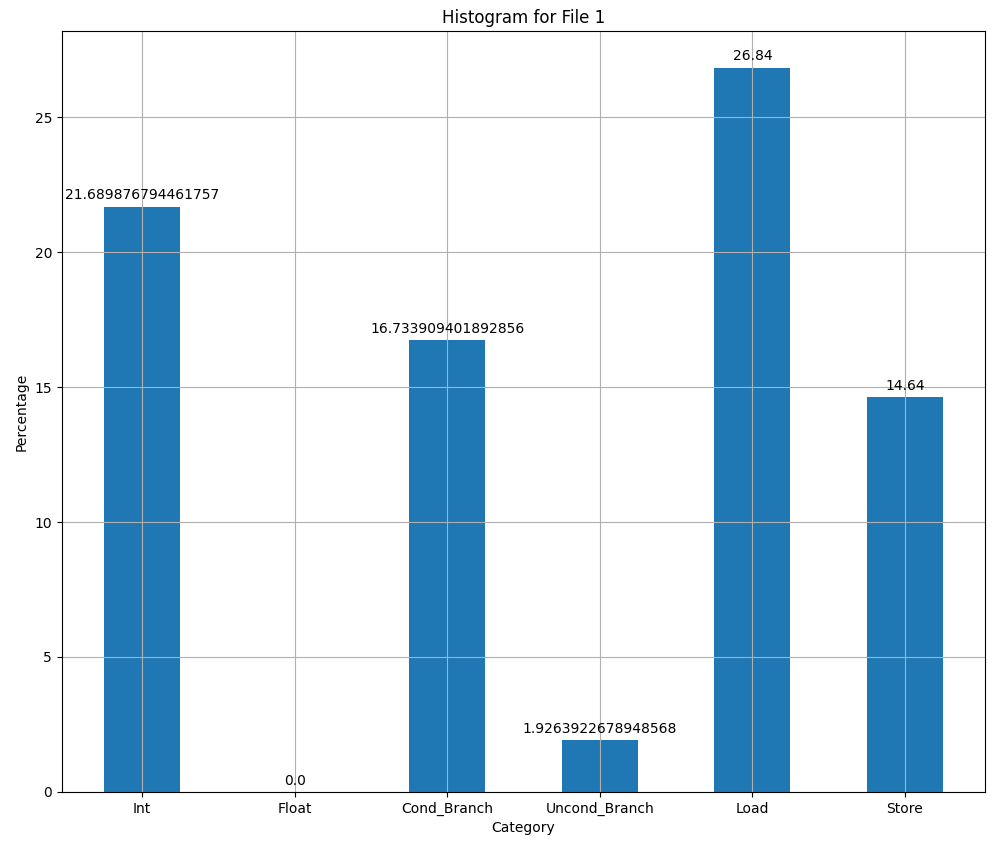
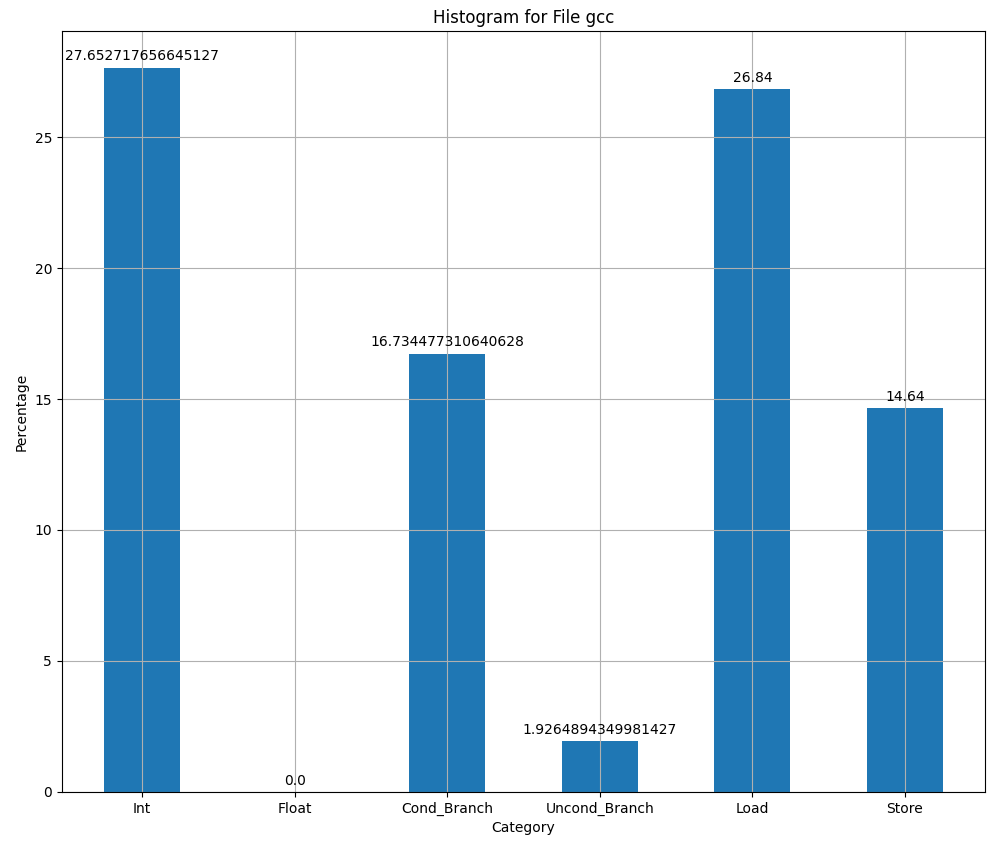
Final Commit

diff --git a/Assignment_1/Part_A/logic.cpp b/Assignment_1/Part_A/logic.cpp
@@ -1,0 +1,31 @@
+#include "pin.H"
+#include <iostream>
+#include <fstream>
+
+UINT64 arithmeticInstructionCount = 0;
+
+// This function is called for every instruction and counts arithmetic instructions
+VOID CountArithmeticInstructions(INS ins, VOID *v) {
+    if (INS_Category(ins) == XED_CATEGORY_ARITHMETIC) {
+        arithmeticInstructionCount++;
+    }
+}
+
+// This function is called when the application exits
+VOID Fini(INT32 code, VOID *v) {
+    std::cerr << "Arithmetic Instruction Count: " << arithmeticInstructionCount << std::endl;
+}
+
+// Entry point
+int main(int argc, char *argv[]) {
+    PIN_Init(argc, argv);
+
+    // Instrumentation setup
+    INS_AddInstrumentFunction(CountArithmeticInstructions, 0);
+    PIN_AddFiniFunction(Fini, 0);
+
+    // Start the program
+    PIN_StartProgram();
+
+    return 0;
+}

diff --git a/Assignment_1/Part_A/graphit.py b/Assignment_1/Part_A/graphit.py
@@ -9,6 +9,9 @@ dataframes = [pd.read_csv('./Outputs/'+file_path, usecols=['Category', 'Percenta
 
 
 # Load CSV files into DataFrames and plot histograms
+
+list = ["gcc","mcf","namd","lbm","xalancbmk"]
+
 for i, ( file_path) in enumerate((file_paths)):
     df = pd.read_csv('./Outputs/'+file_path, usecols=['Category', 'Percentage %'])  # Skip the first column
     fig, ax = plt.subplots(nrows=1, ncols=1,figsize=( 2*len(file_paths), len(file_paths)*2))
@@ -21,7 +24,7 @@ for i, ( file_path) in enumerate((file_paths)):
             textcoords="offset points",
             ha='center', va='bottom')
 
-    ax.set_title(f"Histogram for File {i+1}")
+    ax.set_title(f"Histogram for File {list[i]}")
     ax.set_xlabel('Category')
     ax.set_ylabel('Percentage')
     ax.tick_params(axis='x', labelsize=10)  # Rotate x-axis labels

diff --git a/Assignment_1/Part_A/getDynamic.py b/Assignment_1/Part_A/getDynamic.py
@@ -99,6 +99,10 @@ if __name__=="__main__":
     # print("Store - ",ld_store_data['MEM_W'][1],"%")
     # print(int(ld_store_data['MEM_R'][0])/inst_count)
 
+    # print(ld_store_data)
+    # print(ld_store_data['MEM_R'][0][:-1])
+    int_counter = (inst_count-c_jump_counter-unc_jump_counter-eval(ld_store_data['MEM_R'][0][:-1])-eval(ld_store_data['MEM_R'][0][:-1]))
+
     int_percentage = int_counter * 100 / inst_count
     float_percentage = float_counter * 100 / inst_count
     c_jump_percentage = c_jump_counter * 100 / inst_count
@@ -112,4 +116,6 @@ if __name__=="__main__":
     df = pandas.DataFrame(data)
 
     # Print the DataFrame
-    print(df)
+    # print(df)
+
+    df.to_csv(sys.argv[4])
